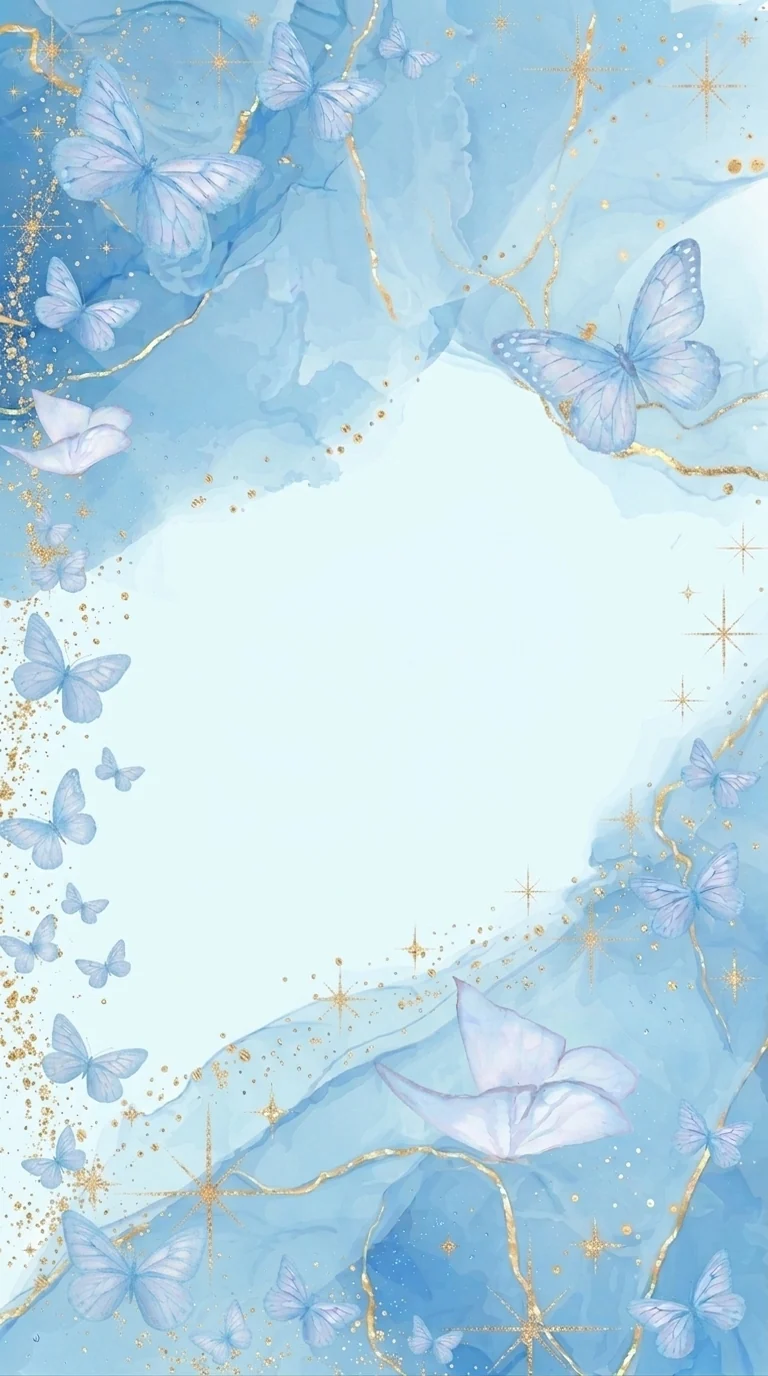
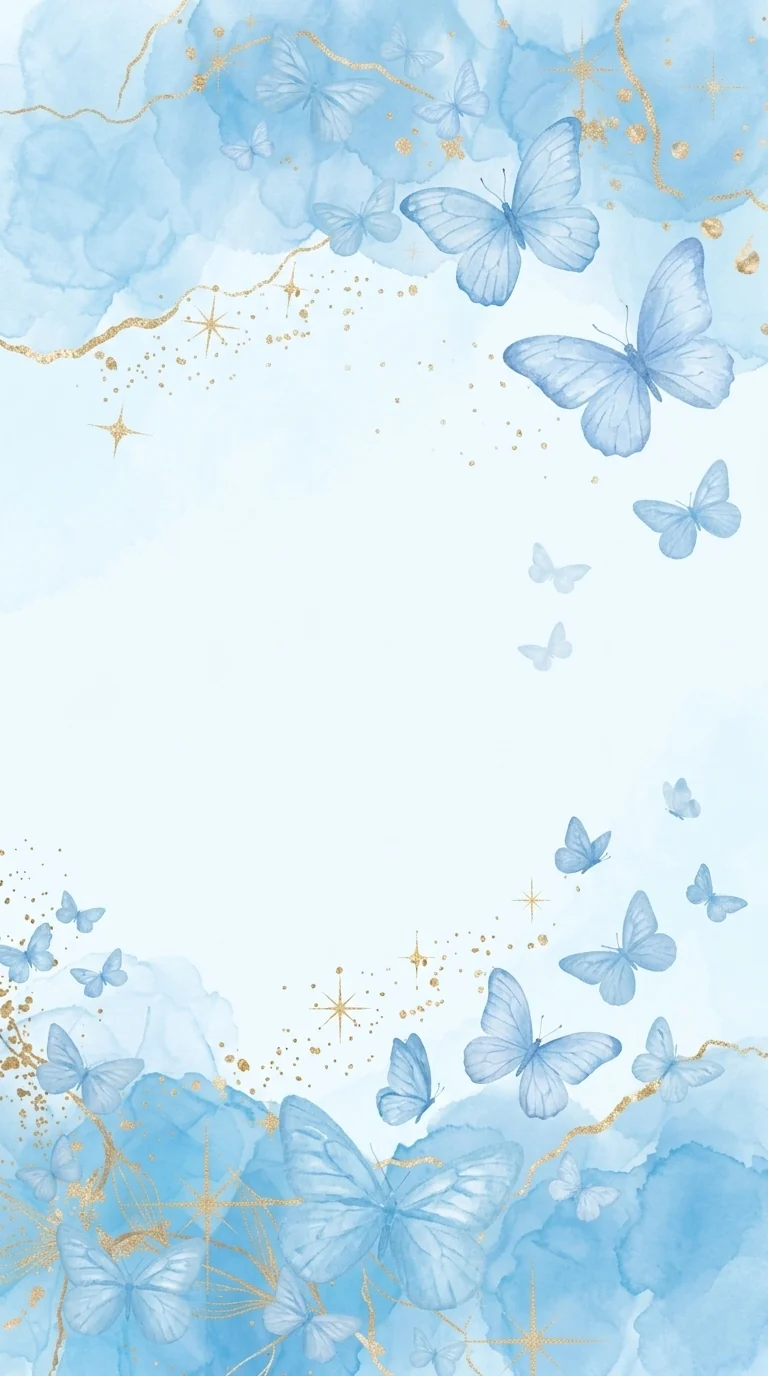
feat: 5 fondos de mariposas del cliente y hero en azul celeste
- Un fondo distinto por seccion (5 assets generados con Gemini)
- Overlay del hero de azul marino a azul celeste
- 'MIS XV ANOS' mas legible (12px, peso 500, opacidad .88)
- nbsp para que 'XV anos' no se parta en el hero

diff --git a/index.html b/index.html
@@ -131,12 +131,12 @@ h1 em,h2 em,h3 em{font-style:italic;font-weight:600;color:var(--gold)}
 .hero-bg-overlay{
   position:absolute;inset:0;z-index:-1;
   background:
-    radial-gradient(ellipse at center top, transparent 20%, rgba(6,16,58,.5) 70%),
+    radial-gradient(ellipse at center top, transparent 20%, rgba(46,111,183,.58) 70%),
     linear-gradient(180deg,
-      rgba(6,16,58,.62) 0%,
-      rgba(6,16,58,.18) 35%,
-      rgba(6,16,58,.18) 55%,
-      rgba(6,16,58,.80) 100%);
+      rgba(46,111,183,.70) 0%,
+      rgba(46,111,183,.30) 35%,
+      rgba(46,111,183,.34) 55%,
+      rgba(29,74,128,.86) 100%);
 }
 .hero-frame{position:absolute;inset:clamp(24px,4vw,48px);z-index:-1;border:1px solid rgba(160,124,51,.32);pointer-events:none;}
 .hero-frame::before,.hero-frame::after{content:"";position:absolute;width:24px;height:24px;border:1px solid rgba(160,124,51,.65);}
@@ -161,8 +161,8 @@ h1 em,h2 em,h3 em{font-style:italic;font-weight:600;color:var(--gold)}
 .hero-eyebrow::before,.hero-eyebrow::after{content:"";display:inline-block;width:22px;height:1px;background:#E8C06A;vertical-align:middle;margin:0 10px 3px 0;}
 .hero-eyebrow::after{margin:0 0 3px 10px}
 .hero-wir-heiraten{
-  font-family:var(--sans);font-weight:400;font-size:10px;letter-spacing:.7em;text-transform:uppercase;
-  color:rgba(253,250,241,.6);padding-left:.7em;margin:0 0 14px;line-height:1;
+  font-family:var(--sans);font-weight:500;font-size:12px;letter-spacing:.62em;text-transform:uppercase;
+  color:rgba(253,250,241,.88);text-shadow:0 1px 10px rgba(0,0,0,.35);padding-left:.62em;margin:0 0 14px;line-height:1;
 }
 .hero-name{
   font-family:var(--display);font-style:italic;font-weight:500;
@@ -592,7 +592,7 @@ footer::after{content:'';position:absolute;top:0;left:10%;right:10%;height:1px;b
           <path d="M75 20 L95 20"/><path d="M105 20 L125 20"/>
         </g>
       </svg>
-      <p class="hero-invitation" data-anim="hero-invitation">Una invitación a mis XV años</p>
+      <p class="hero-invitation" data-anim="hero-invitation">Una invitación a mis XV años</p>
       <div class="hero-eyebrow" data-anim="hero-eyebrow">Irapuato · Gto · 2026</div>
       <p class="hero-wir-heiraten" data-anim="hero-wh">Mis XV Años</p>
       <h1 class="hero-name">
@@ -610,7 +610,7 @@ footer::after{content:'';position:absolute;top:0;left:10%;right:10%;height:1px;b
 
   <!-- ════════════════ INVITACIÓN ════════════════ -->
   <section class="sec section-bg" style="padding-top:52px;padding-bottom:min(12vh,96px)">
-    <div class="sec-flora" style="background-image:url('mariposas2.webp');opacity:.18"></div>
+    <div class="sec-flora" style="background-image:url('mariposas1.webp');opacity:.18"></div>
     <div class="sec-inner rv">
       <div class="verse-wrap">
         <svg class="verse-ornament" viewBox="0 0 320 70" fill="none" aria-hidden="true">
@@ -656,7 +656,7 @@ footer::after{content:'';position:absolute;top:0;left:10%;right:10%;height:1px;b
 
   <!-- ════════════════ COUNTDOWN ════════════════ -->
   <section class="sec section-surface countdown" style="padding-top:min(12vh,88px);padding-bottom:min(12vh,88px)">
-    <div class="sec-flora" style="background-image:url('mariposas1.webp');opacity:.42"></div>
+    <div class="sec-flora" style="background-image:url('mariposas5.webp');opacity:.42"></div>
     <div class="sec-inner">
       <div class="eyebrow">Cuenta Regresiva</div>
       <h2>Contando los <em>Días</em></h2>
@@ -674,7 +674,7 @@ footer::after{content:'';position:absolute;top:0;left:10%;right:10%;height:1px;b
 
   <!-- ════════════════ FAMILIAS ════════════════ -->
   <section class="sec section-bg" style="text-align:center">
-    <div class="sec-flora" style="background-image:url('mariposas1.webp');opacity:.12"></div>
+    <div class="sec-flora" style="background-image:url('mariposas2.webp');opacity:.12"></div>
     <div class="sec-inner">
       <div class="eyebrow">Con la bendición de</div>
       <h2>Mi <em>Familia</em></h2>
@@ -761,7 +761,7 @@ footer::after{content:'';position:absolute;top:0;left:10%;right:10%;height:1px;b
 
   <!-- ════════════════ HOSPEDAJE ════════════════ -->
   <section class="sec section-bg" style="text-align:center;overflow:hidden">
-    <div class="sec-flora" style="background-image:url('mariposas1.webp');opacity:.12"></div>
+    <div class="sec-flora" style="background-image:url('mariposas3.webp');opacity:.12"></div>
     <div class="sec-inner">
       <div class="eyebrow rv">Para tu Comodidad</div>
       <h2 class="rv">Hospedaje <em>Recomendado</em></h2>
@@ -780,7 +780,7 @@ footer::after{content:'';position:absolute;top:0;left:10%;right:10%;height:1px;b
 
   <!-- ════════════════ ITINERARIO ════════════════ -->
   <section class="sec section-bg" style="text-align:center;overflow:hidden">
-    <div class="sec-flora" style="background-image:url('mariposas1.webp');opacity:.14"></div>
+    <div class="sec-flora" style="background-image:url('mariposas4.webp');opacity:.14"></div>
     <div class="sec-inner">
       <div class="eyebrow">El Programa del Día</div>
       <h2>El <em>Itinerario</em></h2>
@@ -867,7 +867,7 @@ footer::after{content:'';position:absolute;top:0;left:10%;right:10%;height:1px;b
 
   <!-- ════════════════ DRESS CODE ════════════════ -->
   <section class="sec section-surface dress" style="text-align:center">
-    <div class="sec-flora" style="background-image:url('mariposas2.webp');opacity:.20"></div>
+    <div class="sec-flora" style="background-image:url('mariposas5.webp');opacity:.20"></div>
     <div class="sec-inner">
       <div class="eyebrow">Código de Vestimenta</div>
       <h2 class="rv">Etiqueta <em>Formal</em></h2>
